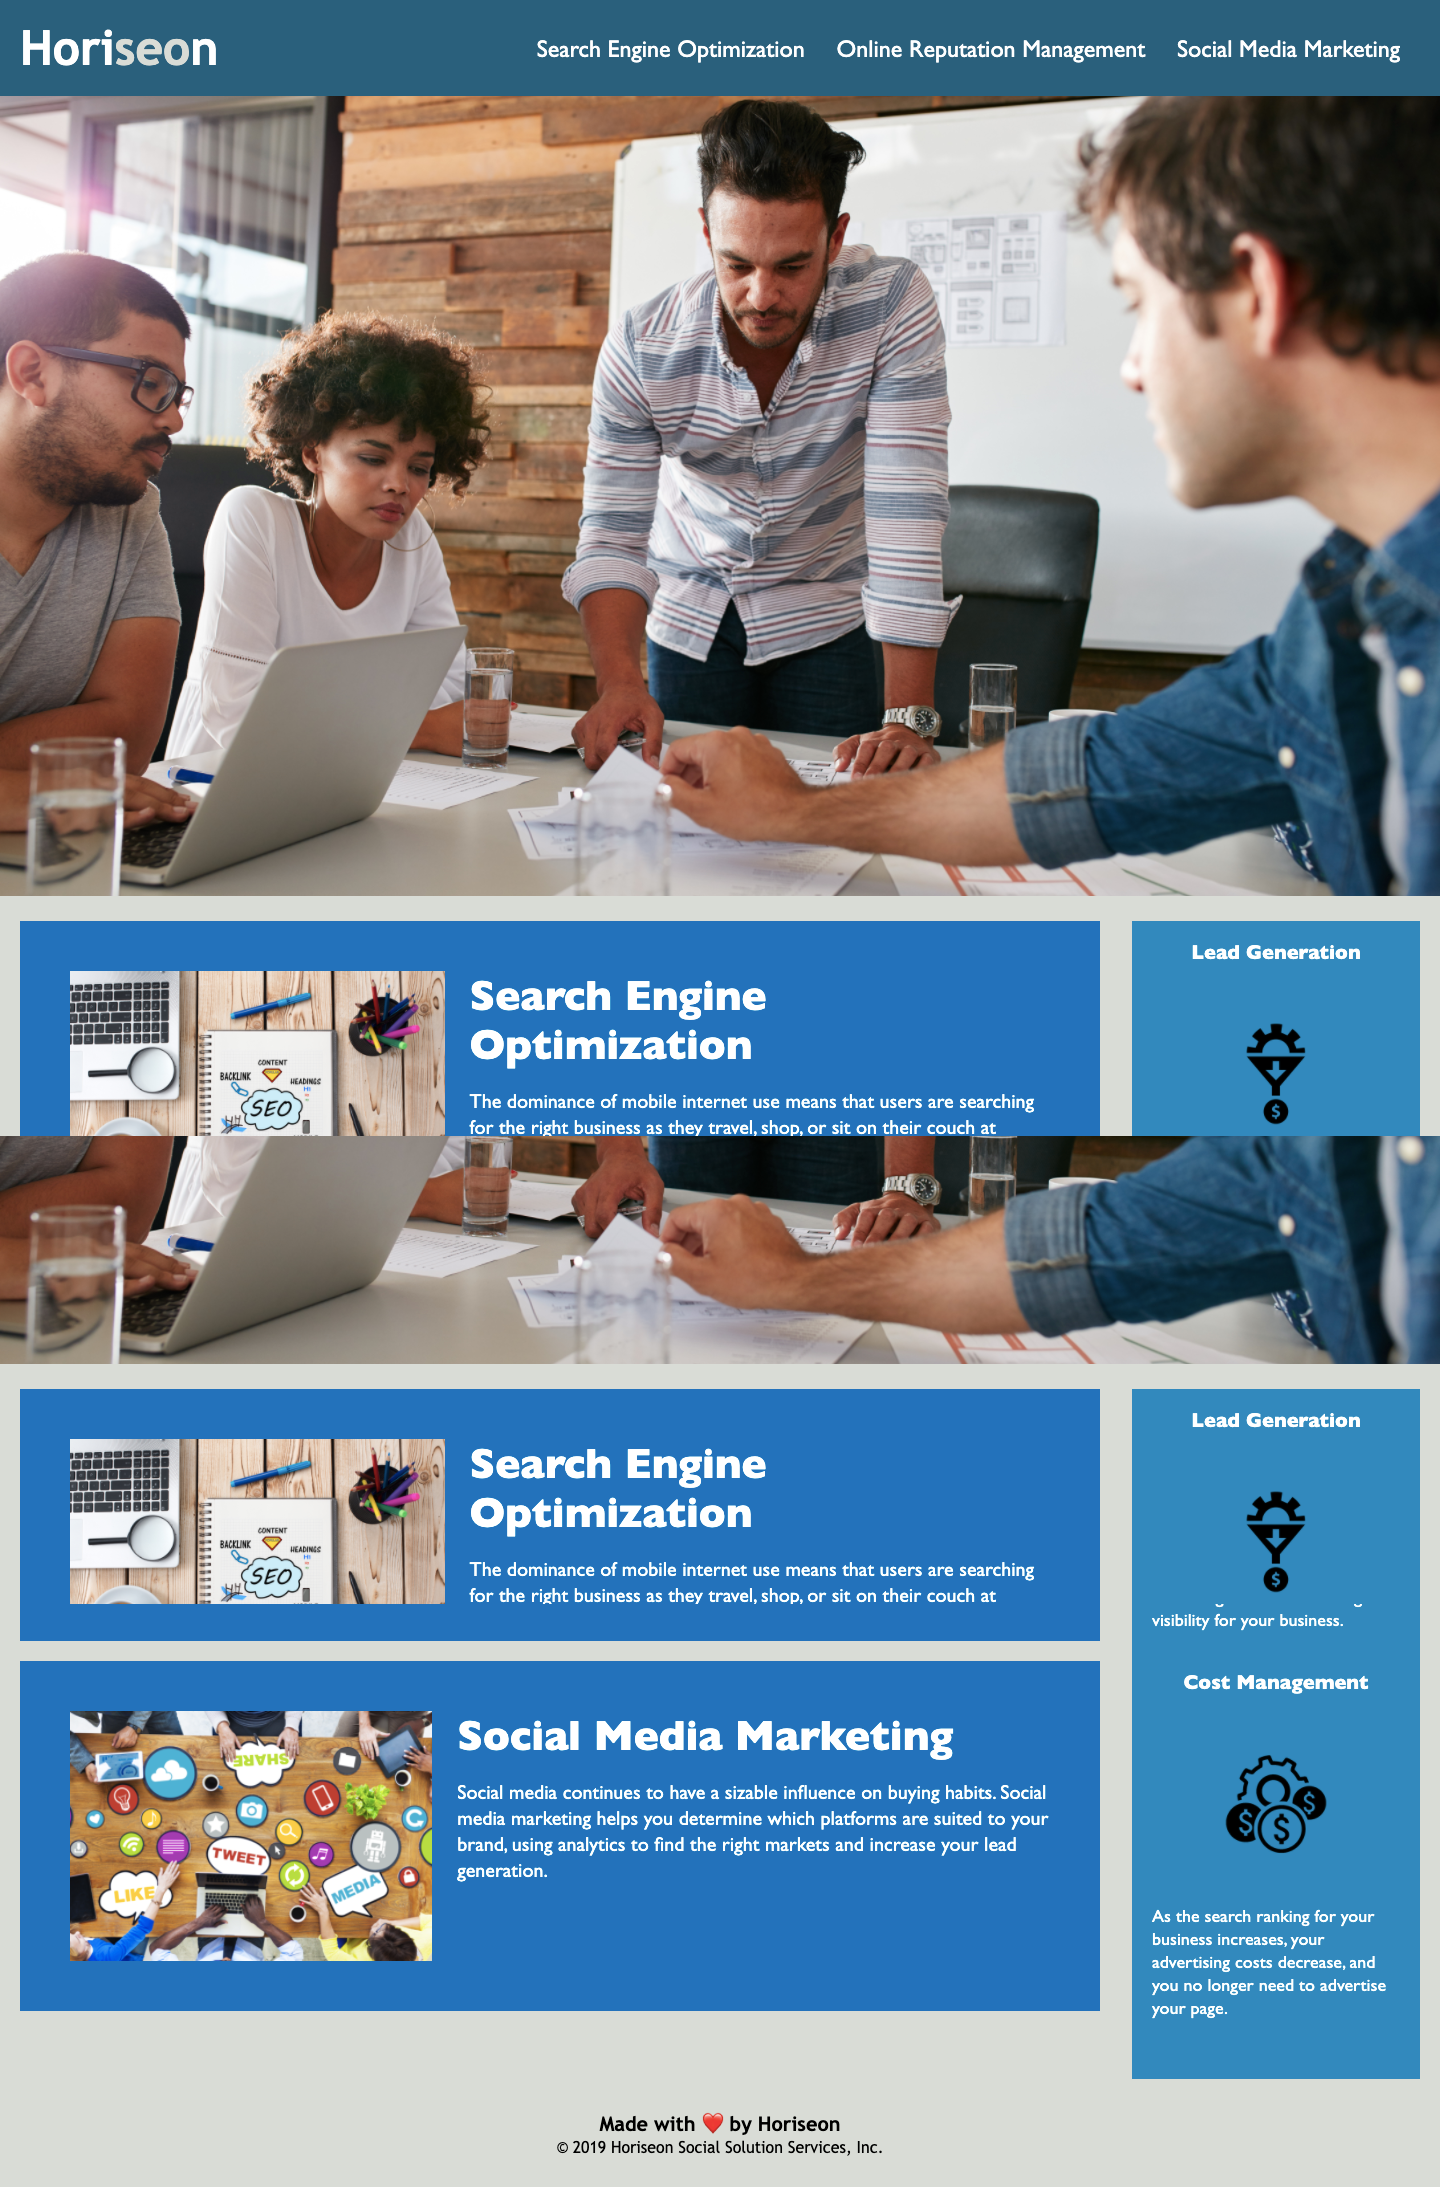
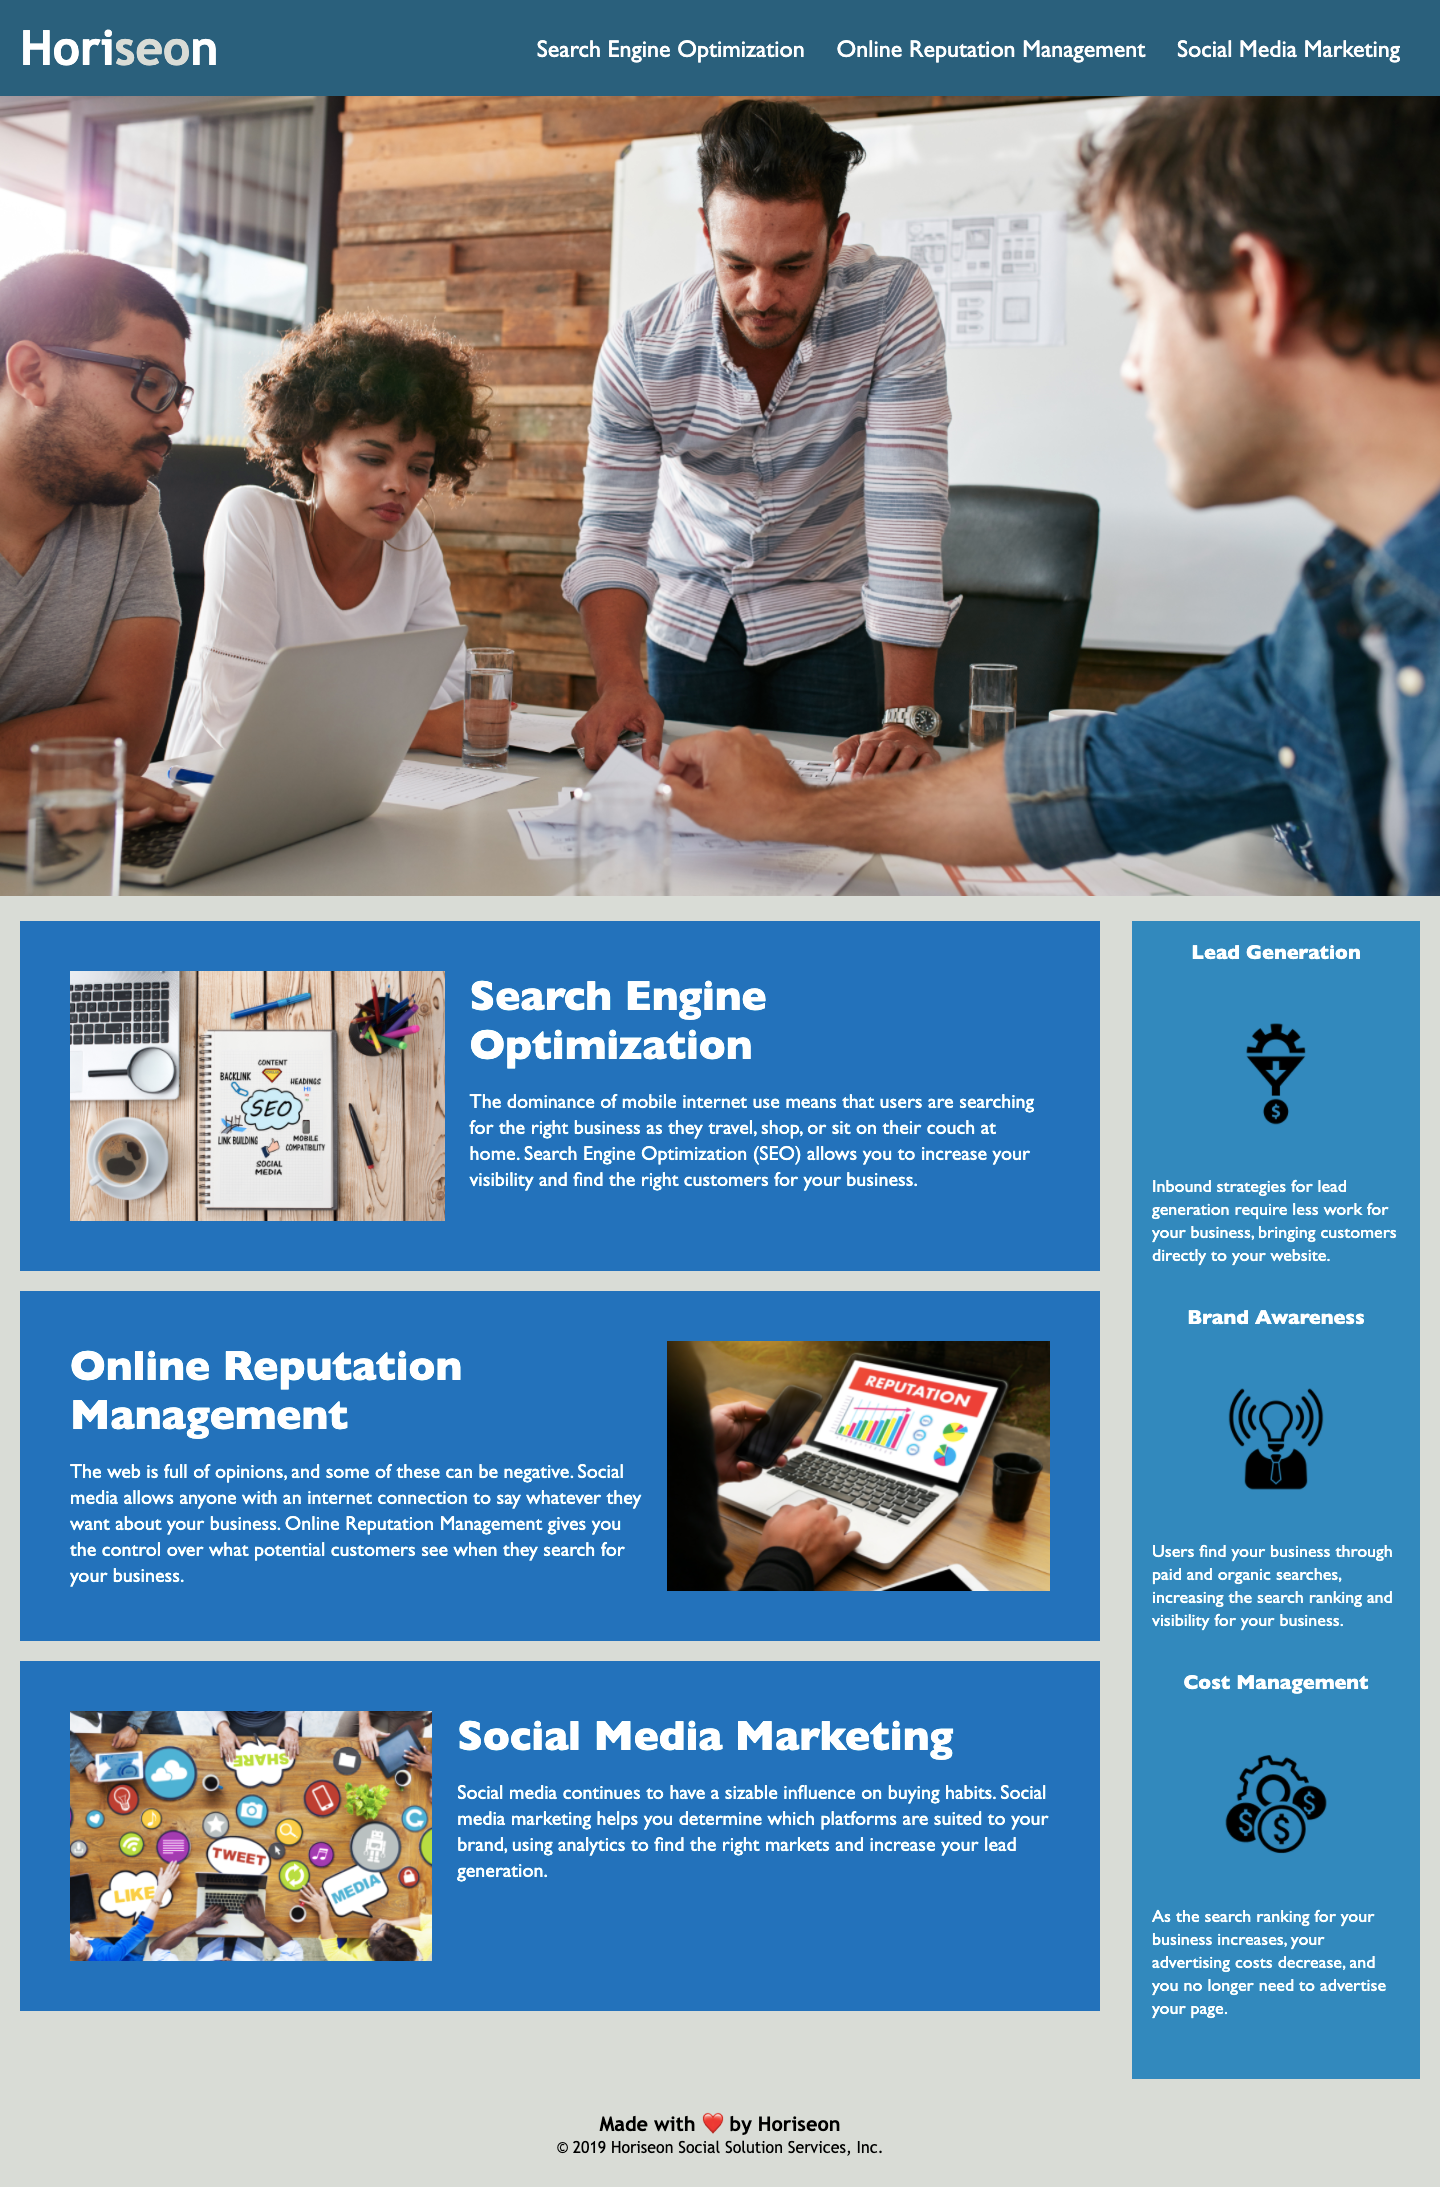
add comments in html file, modifiy header and footer

Changed region(s): [[0.0, 0.4975, 1.0, 0.7462]]

diff --git a/assets/css/style.css b/assets/css/style.css
@@ -7,37 +7,37 @@
 body {
   background-color: #d9dcd6;
   color: #ffffff;
+  font-family: 'Gill Sans', 'Gill Sans MT', 'Calibri', 'Trebuchet MS', sans-serif;
 }
 
 /* header section styling starts */
-.header {
-  padding: 20px;
+header {
+  padding: 25px;
   font-family: 'Trebuchet MS', 'Lucida Sans Unicode', 'Lucida Grande', 'Lucida Sans', 'Arial', sans-serif;
   background-color: #2a607c;
 }
 
-.header h1 {
-  display: inline-block;
+header h1 {
+  display: inline;
   font-size: 48px;
 }
 
-.header h1 .seo {
+header span {
   color: #d9dcd6;
 }
 
-.header nav {
+header nav {
   padding: 15px 20px;
   float: right;
-  font-family: 'Gill Sans', 'Gill Sans MT', 'Calibri', 'Trebuchet MS', sans-serif;
-  font-size: 24px;
+  font-size: 22px;
 }
 
-.header nav ul li {
+header nav ul li {
   display: inline;
   margin-left: 25px;
 }
 
-.header a {
+header a {
   color: #ffffff;
   text-decoration: none;
 }
@@ -68,7 +68,6 @@ body {
   margin-bottom: 20px;
   padding: 50px;
   height: 350px;
-  font-family: 'Gill Sans', 'Gill Sans MT', 'Calibri', 'Trebuchet MS', sans-serif;
   background-color: #0072bb;
 }
 
@@ -104,7 +103,6 @@ body {
   float: right;
   width: 20%;
   height: 100%;
-  font-family: 'Gill Sans', 'Gill Sans MT', 'Calibri', 'Trebuchet MS', sans-serif;
   background-color: #2589bd;
 
 }
@@ -133,7 +131,7 @@ text-align: center;
 
 /* footer section styling starts */
 
-.footer {
+footer {
   padding: 30px;
   clear: both;
   font-family: 'Trebuchet MS', 'Lucida Sans Unicode', 'Lucida Grande', 'Lucida Sans', 'Arial', sans-serif;
@@ -141,7 +139,7 @@ text-align: center;
   color:black;
 }
 
-.footer h2 {
+footer h2 {
   font-size: 20px;
 }
 
